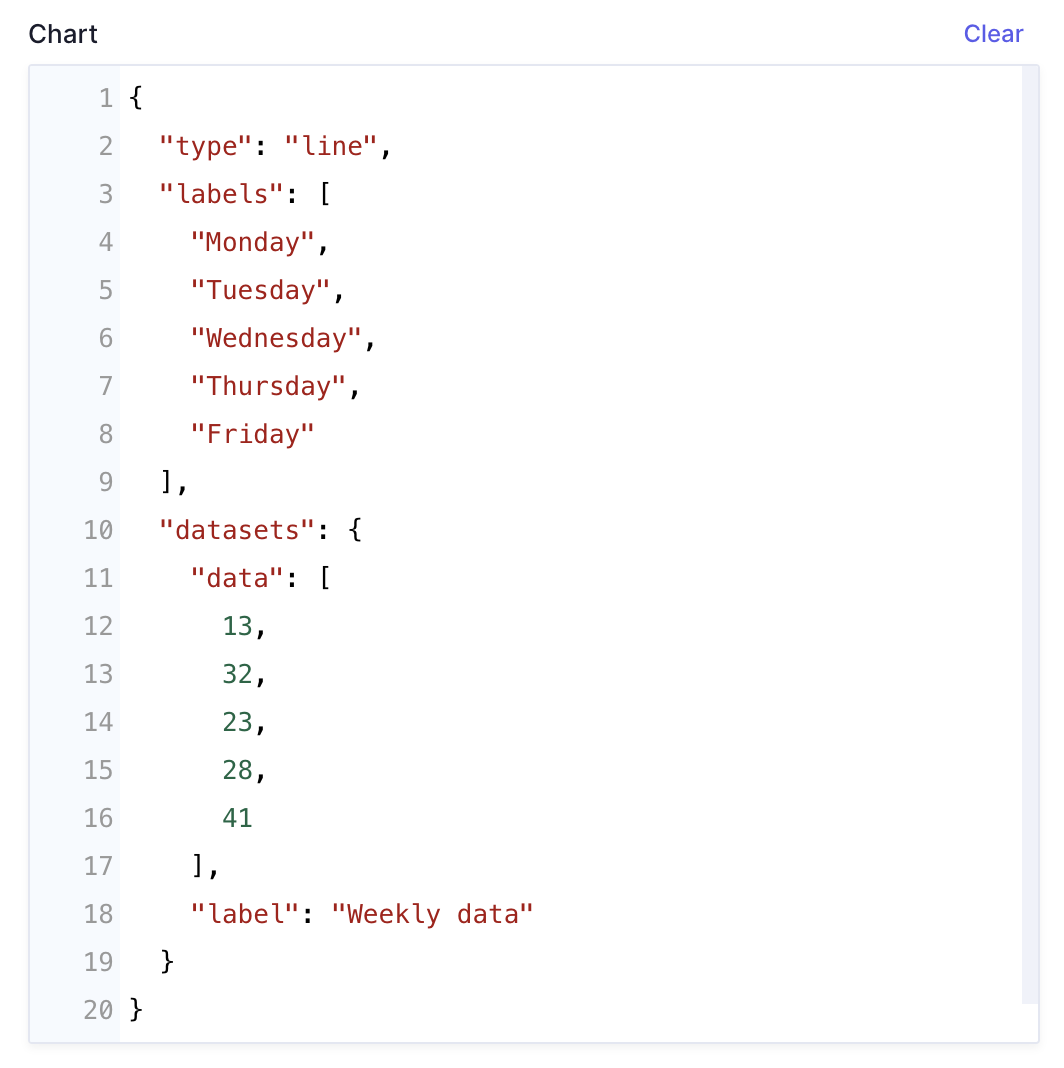
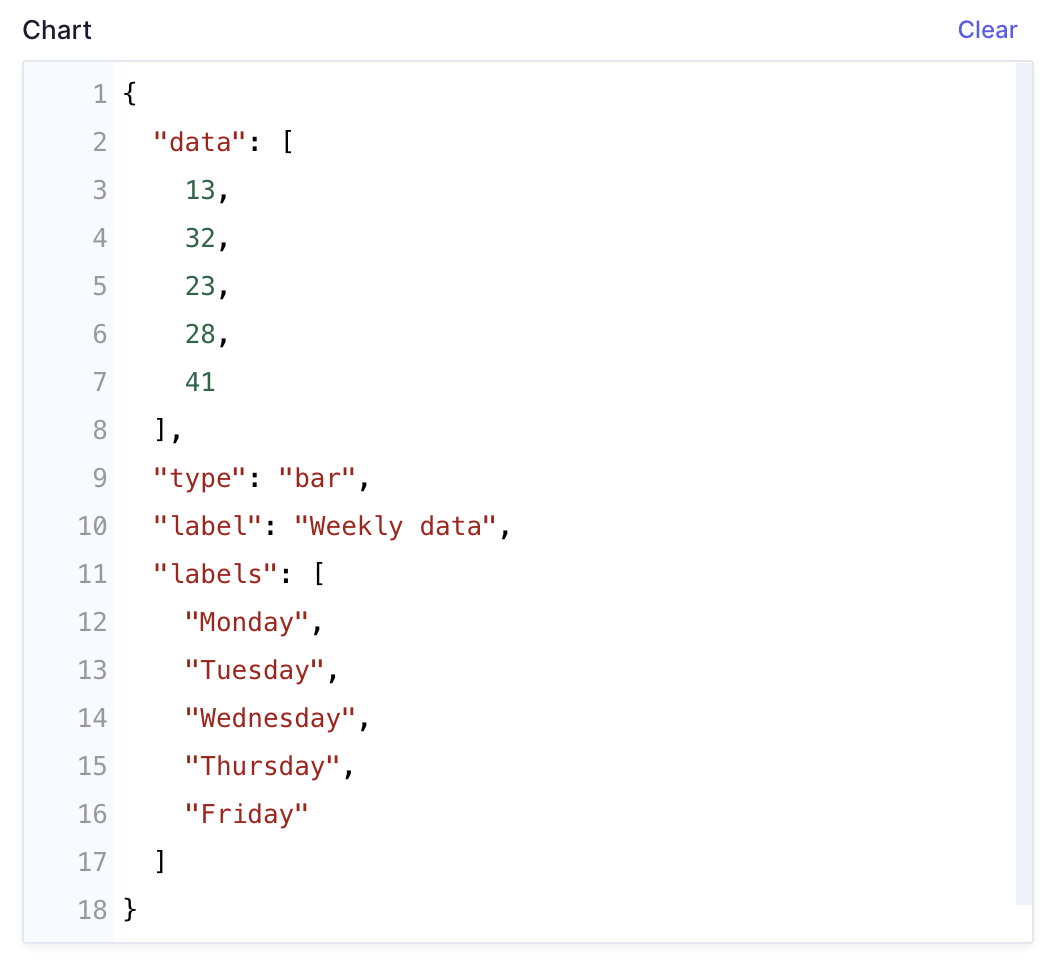
improve type

diff --git a/app/posts/[slug]/components/Chart.tsx b/app/posts/[slug]/components/Chart.tsx
@@ -7,8 +7,8 @@ import { ChartProps, ChartRefType, ValidChartType } from "@/utils/chartTypes";
 const Charts: FC<ChartProps> = ({ post }) => {
   const labels = post?.chart?.labels ?? [];
   const type = post?.chart?.type ?? "bar";
-  const data = post?.chart?.datasets.data ?? [];
-  const label = post?.chart?.datasets.label ?? "";
+  const data = post?.chart?.data ?? [];
+  const label = post?.chart?.label ?? "";
 
   const chartRef = useRef<ChartRefType>(null);
 

diff --git a/utils/chartTypes.ts b/utils/chartTypes.ts
@@ -13,15 +13,10 @@ type Chart = {
 };
 
 type ChartType = {
-  label: Dataset<string & number>;
-  datasets: Dataset<string & number>;
+  label: string;
+  data: string[] | number[];
   type: ValidChartType;
   labels: string[];
-};
-
-type Dataset<T> = {
-  data: T[];
-  label: string;
 };
 
 export type { ChartProps, Chart, ChartRefType, ValidChartType };
